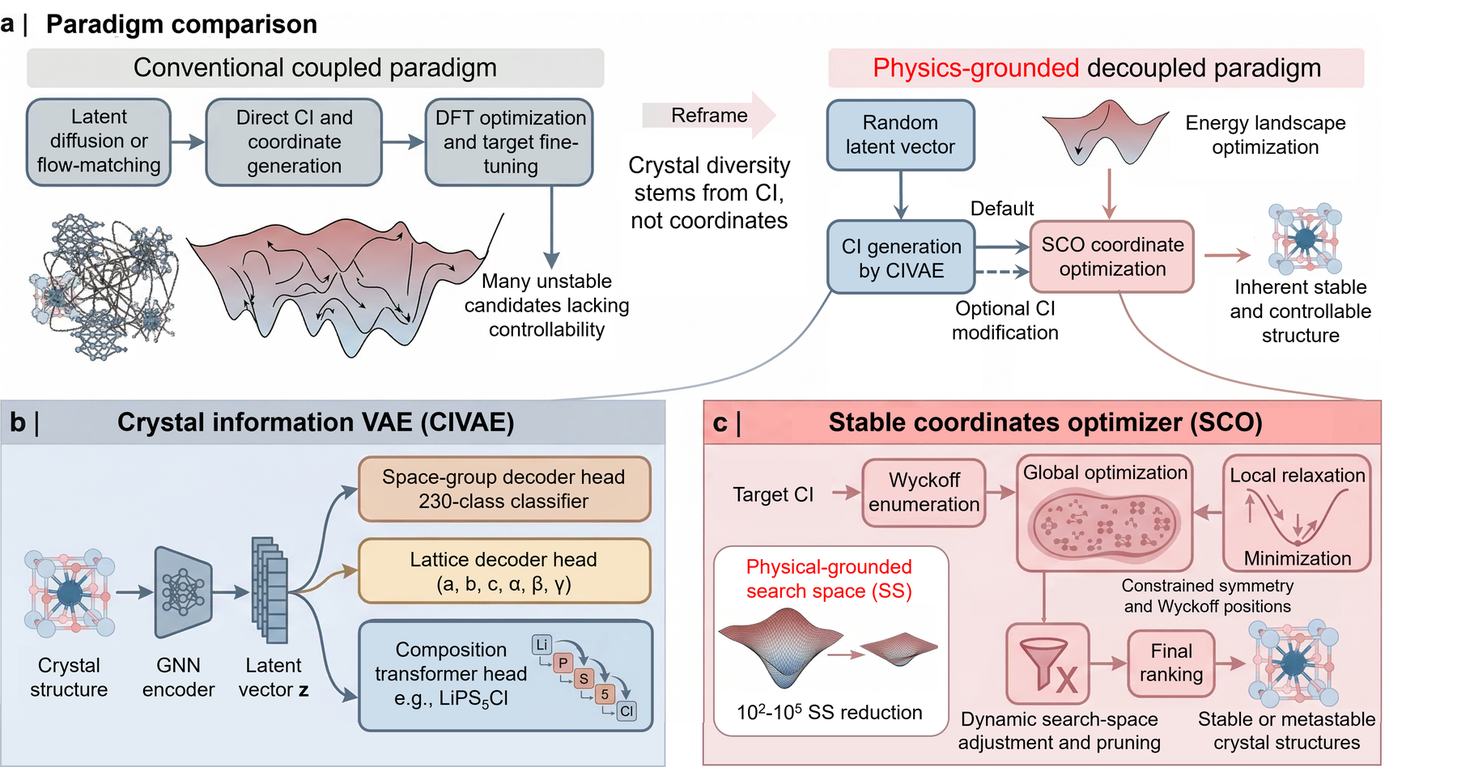
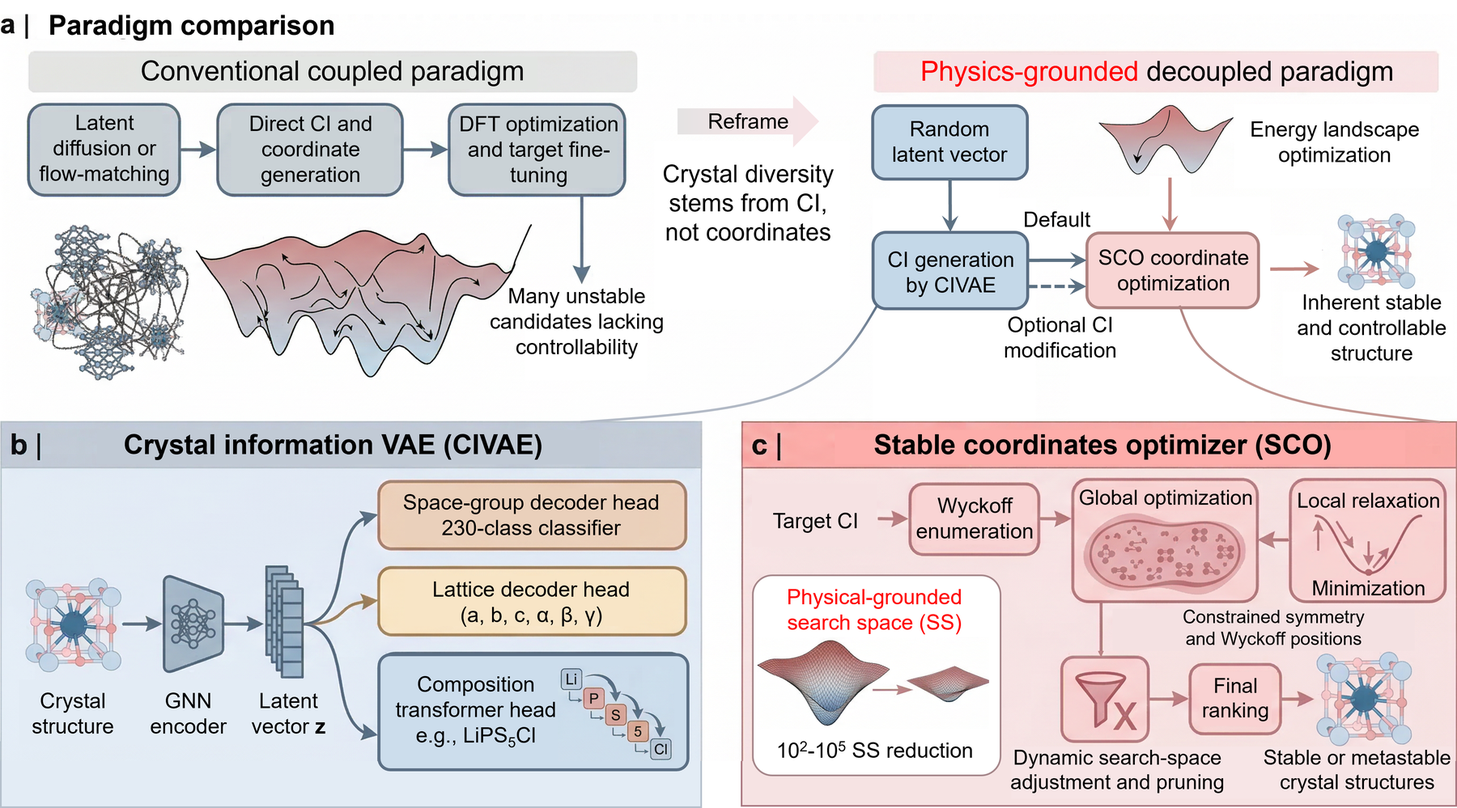
Update about.md with CatDT, SCGEN and FormulaAgent; recrop SCGEN figure
- Mirror the config.js updates onto the legacy Jekyll about page
- Add CatDT paper box and publication entry, renumber the list to 22
- Rename SSAGEN to SCGEN and LLM-Feynman to FormulaAgent
- First-author section is now 6 published + 3 preprints
- Replace the SCGEN figure with the version without right-hand whitespace

diff --git a/_pages/about.md b/_pages/about.md
@@ -17,11 +17,11 @@ redirect_from:
 
 <span class='anchor' id='about-me'></span>
 
-My research lies at the intersection of artificial intelligence and materials science, focusing on developing innovative methods and agents for automated materials discovery. I have contributed to research on three main topics: (1) generative models for the inverse design of functional materials, (2) agents based on large language models for synthesis prediction of crystal structures and scientific formula discovery, and (3) interpretable machine learning for catalyst design. 
+My research lies at the intersection of artificial intelligence and materials science, focusing on developing innovative methods and agents for automated materials discovery. I have contributed to research on four main topics: (1) generative models for the inverse design of functional materials, (2) agents based on large language models for synthesis prediction of crystal structures and scientific formula discovery, (3) multi-agent systems that autonomously simulate working catalysts, and (4) interpretable machine learning for catalyst design. 
 
-I have published 19 peer-reviewed SCI papers with an h-index of <span id="h_index_intro">12</span>, receiving total <a href='https://scholar.google.com/citations?user=3MkXEhUAAAAJ&hl'><img src="https://img.shields.io/endpoint?url={{ url | url_encode }}&logo=Google%20Scholar&labelColor=f6f6f6&color=9cf&style=flat&label=citations"></a>. Among these, I am the first author on 8 papers, including 3 in Nature Communications, 1 in Materials Horizons, 1 in Advanced Functional Materials, and 1 in The Journal of Physical Chemistry Letters. Additionally, I have two important first-authored manuscripts currently under review, available as preprints. 
+I have published 22 papers with an h-index of <span id="h_index_intro">12</span>, receiving total <a href='https://scholar.google.com/citations?user=3MkXEhUAAAAJ&hl'><img src="https://img.shields.io/endpoint?url={{ url | url_encode }}&logo=Google%20Scholar&labelColor=f6f6f6&color=9cf&style=flat&label=citations"></a>. Among these, I am the first author on 9 papers, including 3 in Nature Communications, 1 in Materials Horizons, 1 in Advanced Functional Materials, and 1 in The Journal of Physical Chemistry Letters. Additionally, I have three important first-authored manuscripts currently under review, available as preprints. 
 
-My interdisciplinary work has led to the development of several innovative frameworks including MAGECS (Material Generation with Efficient Global Chemical Space Search) for guiding generative models to globally explore chemical space, SSAGEN (Stability and Symmetry-Assured GENerative framework) for crystal structure generation with inherent stability and symmetry, CSLLM (Crystal Synthesis Large Language Models) for accurate synthesizability prediction of crystal structures, and LLM-Feynman for universal scientific formula and theory discovery. My research has substantially improved discovery efficiency and success rates for novel functional materials.
+My interdisciplinary work has led to the development of several innovative frameworks including CatDT (Catalysis Digital Twin), a self-evolving multi-agent system that builds a condition-aware digital twin of a working catalyst from a bulk crystal and a single sentence, MAGECS (Material Generation with Efficient Global Chemical Space Search) for guiding generative models to globally explore chemical space, SCGEN (Stable and Controllable crystal structure GENeration) for physics-grounded generation of inherently stable, novel and controllable crystals, CSLLM (Crystal Synthesis Large Language Models) for accurate synthesizability prediction of crystal structures, and FormulaAgent for universal scientific formula and theory discovery. My research has substantially improved discovery efficiency and success rates for novel functional materials.
 
 # 🎖 Honors and Awards
 - *2020.01* Top Prize in "HUAWEI Cup" The 16th Chinese Post-Graduate Mathematical Contest in Modeling, Award ratio: 1.3% (188 teams out of 14,014)
@@ -44,6 +44,25 @@ My interdisciplinary work has led to the development of several innovative frame
 - *2019.10 - 2020.01*, **Research Intern**, Materials Data Platform Center, **National Institute for Materials Science (NIMS)**, Tsukuba, Japan
 
 # 📝 Key Research Contributions
+
+<div class='paper-box'>
+  <div class='paper-box-image'>
+    <div style="position: relative; width: 100%;">
+      <div style="background-color: #E6F3FF; padding: 8px; text-align: center; font-weight: bold; border-radius: 8px 8px 0 0;">
+        arXiv: 2606.05050
+      </div>
+      <img src='images/catdt.png' alt="sym" width="100%" style="display: block; border-radius: 0 0 8px 8px;">
+    </div>
+  </div>
+  <div class='paper-box-text' markdown="1">
+
+[Autonomous heterogeneous catalyst discovery with a self-evolving multi-agent digital twin](https://arxiv.org/abs/2606.05050)
+
+**Zhilong Song**, Zongmin Zhang, Lixue Cheng
+
+Theoretical heterogeneous catalysis promises rapid catalyst discovery, yet computational and machine-learning predictions still often deviate from experiment and stay confined to narrow material families, for want of a faithful, condition-aware catalytic simulator. Here we present CatDT (Catalysis Digital Twin), a self-evolving multi-agent system that builds an autonomous, condition-aware digital twin of a working catalyst. From only a bulk crystal and a natural-language reaction description, CatDT uses eight specialized agents and 27 scientific tools to predict stable facets, reconstruct surfaces under operating conditions, enumerate and rank reaction pathways, locate transition states, and compute kinetics in 5–30 min on a single GPU. Two innovations address its two hardest steps. UniMech identifies dominant pathways for novel materials and under-explored reactions at over 10<sup>3</sup>× lower cost than exhaustive enumeration, by fusing agent-guided proposals with energy-cached graph search over autonomously constructed reaction networks. A memory-augmented reinforcement loop lifts barrier-calculation success from 41% to 84% across 600 diverse catalytic surfaces, by learning to construct better initial and final states and path interpolations across runs. Every CatDT prediction lies between 0.5 and 2 times the experimental value across measurements spanning four orders of magnitude, on seven benchmarks: stepped metals, single-atom catalysts, ordered intermetallics, vacancy-rich two-dimensional sulfides, two-dimensional carbides, and a strong-metal–support-interaction (SMSI) interface. For propane dehydrogenation (PDH), CatDT independently discovers non-precious catalyst candidates that rival the Pt-based industrial benchmark, with the proposed Ni@ZrO<sub>2</sub> SMSI overlayer reaching a simulated TOF of 1.63 s<sup>-1</sup> at ~100% selectivity. More broadly, the decisive factor for a faithful catalyst digital twin, or any multi-stage scientific simulator, is not raw LLM capability but the engineered harness around it: deterministic tools, persistent memory, and verified self-improvement that compound across every new foundation model, tool, and run.
+</div>
+</div>
 
 <div class='paper-box'>
   <div class='paper-box-image'>
@@ -89,16 +108,16 @@ Directly generating material structures with optimal properties is a long-standi
       <div style="background-color: #E6F3FF; padding: 8px; text-align: center; font-weight: bold; border-radius: 8px 8px 0 0;">
         arXiv: 2507.19307
       </div>
-      <img src='images/ssagen.png' alt="sym" width="100%" style="display: block; border-radius: 0 0 8px 8px;">
+      <img src='images/scgen.png' alt="sym" width="100%" style="display: block; border-radius: 0 0 8px 8px;">
     </div>
   </div>
   <div class='paper-box-text' markdown="1">
 
-[Stability and Symmetry-Assured Crystal Structure Generation for Inverse Design of Photocatalysts in Water Splitting](https://arxiv.org/abs/2507.19307)
+[Physics-grounded generative design of inherently stable, novel and controllable crystal structures](https://arxiv.org/abs/2507.19307)
 
-**Zhilong Song**, Chongyi Ling, Qiang Li, Qionghua Zhou, Jinlan Wang
+**Zhilong Song**, Qionghua Zhou, Chongyi Ling, Qiang Li, Lixue Cheng, Jinlan Wang
 
-Generative models are revolutionizing materials discovery by enabling inverse design-direct generation of structures from desired properties. However, existing approaches often struggle to ensure inherent stability and symmetry while precisely generating structures with target compositions, space groups, and lattices without fine-tuning. Here, we present SSAGEN (Stability and Symmetry-Assured GENerative framework), which overcomes these limitations by decoupling structure generation into two distinct stages: crystal information (lattice, composition, and space group) generation and coordinate optimization. SSAGEN first generates diverse yet physically plausible crystal information, then derives stable and metastable atomic positions through universal machine learning potentials, combined global and local optimization with symmetry and Wyckoff position constraints, and dynamically refined search spaces. Compared to prior generative models such as CDVAE, SSAGEN improves the thermodynamic and kinetic stability of generated structures by 148% and 180%, respectively, while inherently satisfying target compositions, space groups, and lattices. Applied to photocatalytic water splitting (PWS), SSAGEN generates 200,000 structures-81.2% novel-with 3,318 meeting all stability and band gap criteria. Density functional theory (DFT) validation confirms 95.6% structures satisfy PWS requirements, with 24 optimal candidates identified through comprehensive screening based on electronic structure, thermodynamic, kinetic, and aqueous stability criteria. SSAGEN not only precisely generates materials with desired crystal information but also ensures inherent stability and symmetry, establishing a new paradigm for targeted inverse design of functional materials.
+Generative inverse design is reshaping the discovery of functional crystalline materials. Yet current generative models face challenges in simultaneously achieving stability, novelty, and precise controllability in a single trained model. We address these challenges with a key physical insight: the diversity of crystals is governed by their crystallographic information (CI), namely composition, space group and lattice, whereas only a few stable atomic configurations remain once the CI is fixed. Built on this insight, we introduce SCGEN (stable and controllable crystal structure generation), a physics-grounded generative model with two components. A variational autoencoder samples diverse, physically plausible CI, and a symmetry- and Wyckoff-position-constrained optimizer locates stable atomic positions via universal machine-learning potentials. Benchmarked on roughly two million structures, SCGEN reaches state-of-the-art stability while preserving comparable novelty, and it satisfies any specified composition, space group, lattice or joint constraint with 100% success and no task-specific retraining. Applied to photocatalytic water splitting, property-guided optimization with SCGEN generates 200,000 candidate structures and identifies the top 22 stable, active and synthesizable photocatalysts. By decoupling CI generation from coordinate optimization, SCGEN establishes a physics-grounded inverse-design paradigm that yields synthesis-ready crystals on demand, rather than structures requiring post hoc repair, relaxation, or retraining.
 </div>
 </div>
 
@@ -108,16 +127,16 @@ Generative models are revolutionizing materials discovery by enabling inverse de
       <div style="background-color: #E6F3FF; padding: 8px; text-align: center; font-weight: bold; border-radius: 8px 8px 0 0;">
         arXiv: 2503.06512
       </div>
-      <img src='images/feynman.png' alt="sym" width="100%" style="display: block; border-radius: 0 0 8px 8px;">
+      <img src='images/formulaagent.png' alt="sym" width="100%" style="display: block; border-radius: 0 0 8px 8px;">
     </div>
   </div>
   <div class='paper-box-text' markdown="1">
 
-[LLM-Feynman: Leveraging Large Language Models for Universal Scientific Formula and Theory Discovery](https://arxiv.org/abs/2503.06512)
+[FormulaAgent: A Model-Agnostic Self-Optimizing Agent for Autonomous Scientific Formula Discovery](https://arxiv.org/abs/2503.06512)
 
-**Zhilong Song**, Minggang Ju, Chunjin Ren, Qiang Li, Chongyi Li, Qionghua Zhou, Jinlan Wang
+**Zhilong Song**, Qionghua Zhou, Chunjin Ren, Zhipeng Cao, Minggang Ju, Xiuyun Zhang, Chongyi Ling, Jinlan Wang
 
-Distilling underlying principles from data has historically driven scientific breakthroughs. However, conventional data‐driven machine learning often produces complex models that lack interpretability and generalization due to insufficient domain expertise. Here, we present LLM-Feynman, a novel agent that leverages large language models (LLMs) alongside systematic optimization to derive concise, interpretable formulas from data and domain knowledge. Our method integrates automated feature engineering, LLM-guided symbolic regression with self-evaluation, and Monte Carlo tree search to reduce LLM hallucination, thereby enhancing formula discovery. The embedding of domain knowledge simplifies the formula, while self-evaluation based on this knowledge further minimizes prediction errors, surpassing conventional symbolic regression in accuracy and interpretability. Validation on datasets from Feynman physics lectures confirms that LLM-Feynman can rediscover over 90% real physical formulas. Moreover, when applied to four key materials science tasks -- from classifying the synthesizability of 2D and perovskite structures to predicting ionic conductivity in lithium solid-state electrolytes and GW bandgaps in 2D materials -- LLM-Feynman consistently yields interpretable formula with accuracy exceeding 90% and R2 values above 0.8. By transcending mere data fitting through the integration of deep domain knowledge, LLM-Feynman establishes a new paradigm for the automated discovery of generalizable scientific formula and theory across disciplines.
+Large Language Models (LLMs) have emerged as powerful tools for knowledge integration and prediction across diverse scientific disciplines. However, their ability to derive physically grounded formulas remains limited by hallucination and insufficient domain expertise integration. Here, we develop FormulaAgent, a model-agnostic agent that leverages domain knowledge for iterative self-evaluation, accumulating scored formulas as memory to drive self-optimizing discovery of scientific formulas. Ablation studies show that FormulaAgent suppresses hallucination while outperforming conventional symbolic regression in both accuracy and simplicity. We demonstrate broad applicability across 20 material properties spanning both 2D and bulk systems, with R<sup>2</sup> values ranging from 0.72 to 0.96 while preserving full analytical interpretability. Notably, for 2D material synthesizability, the agent uncovers a compact, interpretable formula (S = −HG·ER + MV + C) achieving 93% predictive accuracy, substantially outperforming thermodynamic stability-based methods (60%). By prioritizing physically informed optimization over purely data-driven fitting, this work establishes a scalable paradigm for automated discovery of compact, transferable, and physically meaningful scientific formulas.
 </div>
 </div>
 
@@ -125,7 +144,7 @@ Distilling underlying principles from data has historically driven scientific br
   <div class='paper-box-image'>
     <div style="position: relative; width: 100%;">
       <div style="background-color: #E6F3FF; padding: 8px; text-align: center; font-weight: bold; border-radius: 8px 8px 0 0;">
-        Acta Phys. Chim. Sin., 100213 (2025)
+        Acta Phys. Chim. Sin. 42, 100213 (2026)
       </div>
       <img src='images/t2mat.png' alt="sym" width="100%" style="display: block; border-radius: 0 0 8px 8px;">
     </div>
@@ -200,9 +219,9 @@ Data-driven machine learning (ML) has earned remarkable achievements in accelera
 # 📚 Publications
 
 
-## Total: 21 papers, <a href='https://scholar.google.com/citations?user=3MkXEhUAAAAJ&hl'>Google Scholar Profile</a> | <a href='https://scholar.google.com/citations?user=3MkXEhUAAAAJ&hl'><img src="https://img.shields.io/endpoint?url={{ url | url_encode }}&logo=Google%20Scholar&labelColor=f6f6f6&color=9cf&style=flat&label=citations"></a> | h-index: <span id="h_index">12</span>
+## Total: 22 papers, <a href='https://scholar.google.com/citations?user=3MkXEhUAAAAJ&hl'>Google Scholar Profile</a> | <a href='https://scholar.google.com/citations?user=3MkXEhUAAAAJ&hl'><img src="https://img.shields.io/endpoint?url={{ url | url_encode }}&logo=Google%20Scholar&labelColor=f6f6f6&color=9cf&style=flat&label=citations"></a> | h-index: <span id="h_index">12</span>
 
-### First Author Papers (6 published + 2 preprints)
+### First Author Papers (6 published + 3 preprints)
 
 1. **Z. Song**, S. Lu, M. Ju, et al. "Accurate prediction of synthesizability and precursors of 3D crystal structures via large language models." [**_Nature Communications_**, 2025, 16(1): 6530](https://www.nature.com/articles/s41467-025-61778-y).
 
@@ -212,45 +231,47 @@ Data-driven machine learning (ML) has earned remarkable achievements in accelera
 
 4. **Z. Song**, Q. Zhou, S. Lu, et al. "Adaptive design of alloys for CO₂ activation and methanation via reinforcement learning Monte Carlo tree search algorithm." [**_The Journal of Physical Chemistry Letters_**, 2023, 14(14): 3594-3601](https://pubs.acs.org/doi/abs/10.1021/acs.jpclett.3c00242).
 
-5. **Z. Song**, C. Ling, Q. Li, et al. "Stability and Symmetry-Assured Crystal Structure Generation for Inverse Design of Photocatalysts in Water Splitting." 2025, [**_arXiv:2507.19307_**](https://arxiv.org/abs/2507.19307). (Under review)
+5. **Z. Song**, Z. Zhang, L. Cheng. "Autonomous heterogeneous catalyst discovery with a self-evolving multi-agent digital twin." 2026, [**_arXiv:2606.05050_**](https://arxiv.org/abs/2606.05050). (Under review)
 
-6. **Z. Song**, M. Ju, C. Ren, et al. "LLM-Feynman: Leveraging Large Language Models for Universal Scientific Formula and Theory Discovery." 2025, [**_arXiv:2503.06512_**](https://arxiv.org/abs/2503.06512). (Under review)
+6. **Z. Song**, Q. Zhou, C. Ling, et al. "Physics-grounded generative design of inherently stable, novel and controllable crystal structures." 2025, [**_arXiv:2507.19307_**](https://arxiv.org/abs/2507.19307). (Under review)
 
-7. **Z. Song**, S. Lu, Q. Zhou, et al. "T2MAT (text-to-materials): A universal agent for generating material structures with goal properties from a single sentence." [**_Acta Physico-Chimica Sinica_**, 2025: 100213](https://www.sciencedirect.com/science/article/pii/S1000681825001699).
+7. **Z. Song**, Q. Zhou, C. Ren, et al. "FormulaAgent: A Model-Agnostic Self-Optimizing Agent for Autonomous Scientific Formula Discovery." 2025, [**_arXiv:2503.06512_**](https://arxiv.org/abs/2503.06512). (Under review)
 
-8. **Z. Song**, X. Chen, F. Meng, et al. "Machine learning in materials design: Algorithm and application." [**_Chinese Physics B_**, 2020, 29(11): 116103](https://iopscience.iop.org/article/10.1088/1674-1056/abc0e3). 
+8. **Z. Song**, S. Lu, Q. Zhou, et al. "T2MAT (text-to-materials): A universal agent for generating material structures with goal properties from a single sentence." [**_Acta Physico-Chimica Sinica_**, 2026, 42(5): 100213](https://www.sciencedirect.com/science/article/pii/S1000681825001699).
+
+9. **Z. Song**, X. Chen, F. Meng, et al. "Machine learning in materials design: Algorithm and application." [**_Chinese Physics B_**, 2020, 29(11): 116103](https://iopscience.iop.org/article/10.1088/1674-1056/abc0e3). 
 
 ### Co-first Author Papers (2 papers)
 
-9. B. Weng#, **Z. Song#**, R. Zhu, et al. "Simple descriptor derived from symbolic regression accelerating the discovery of new perovskite catalysts." [**_Nature Communications_**, 2020, 11(1): 3513](http://www.nature.com/articles/s41467-020-17263-9). (Equal contribution)
+10. B. Weng#, **Z. Song#**, R. Zhu, et al. "Simple descriptor derived from symbolic regression accelerating the discovery of new perovskite catalysts." [**_Nature Communications_**, 2020, 11(1): 3513](http://www.nature.com/articles/s41467-020-17263-9). (Equal contribution)
 
-10. M. Wu#, **Z. Song#**, Y. Cui, et al. "Machine learning-assisted design of nitrogen-rich covalent triazine frameworks photocatalysts." [**_Advanced Functional Materials_**, 2024: 2413453](https://onlinelibrary.wiley.com/doi/10.1002/adfm.202413453). (Equal contribution)
+11. M. Wu#, **Z. Song#**, Y. Cui, et al. "Machine learning-assisted design of nitrogen-rich covalent triazine frameworks photocatalysts." [**_Advanced Functional Materials_**, 2024: 2413453](https://onlinelibrary.wiley.com/doi/10.1002/adfm.202413453). (Equal contribution)
 
 ### Co-author Papers (10 papers)
 
-11. X. Chen, **Z. Song**, S. Lu, et al. "Continuous discovery of novel 2D materials via dual active learning-driven generative models" [**_National Science Review_**, 2026: nwag101](https://academic.oup.com/nsr/advance-article-abstract/doi/10.1093/nsr/nwag101/8475385).
+12. X. Chen, **Z. Song**, S. Lu, et al. "Continuous discovery of novel 2D materials via dual active learning-driven generative models" [**_National Science Review_**, 2026: nwag101](https://academic.oup.com/nsr/advance-article-abstract/doi/10.1093/nsr/nwag101/8475385).
 
-12. Y. Su, **Z. Song**, W. Zhu, et al. "Visible-light photocatalytic CO₂ reduction using metal-organic framework derived Ni(OH)₂ nanocages: a synergy from multiple light reflection, static charge transfer, and oxygen vacancies." [**_ACS Catalysis_**, 2020, 11(1): 345-354](https://pubs.acs.org/doi/10.1021/acscatal.0c04020).
+13. Y. Su, **Z. Song**, W. Zhu, et al. "Visible-light photocatalytic CO₂ reduction using metal-organic framework derived Ni(OH)₂ nanocages: a synergy from multiple light reflection, static charge transfer, and oxygen vacancies." [**_ACS Catalysis_**, 2020, 11(1): 345-354](https://pubs.acs.org/doi/10.1021/acscatal.0c04020).
 
-13. Z. Sun, **Z. Song**, W.J. Yin. "Going beyond the d-band center to describe CO₂ activation on single-atom alloys." [**_Advanced Energy and Sustainability Research_**, 2022, 3(2): 2100152](https://onlinelibrary.wiley.com/doi/10.1002/aesr.202100152).
+14. Z. Sun, **Z. Song**, W.J. Yin. "Going beyond the d-band center to describe CO₂ activation on single-atom alloys." [**_Advanced Energy and Sustainability Research_**, 2022, 3(2): 2100152](https://onlinelibrary.wiley.com/doi/10.1002/aesr.202100152).
 
-14. S. Dieb, **Z. Song**, W.J. Yin, et al. "Optimization of depth-graded multilayer structure for x-ray optics using machine learning." [**_Journal of Applied Physics_**, 2020, 128(7): 074901](http://aip.scitation.org/doi/10.1063/5.0012351).
+15. S. Dieb, **Z. Song**, W.J. Yin, et al. "Optimization of depth-graded multilayer structure for x-ray optics using machine learning." [**_Journal of Applied Physics_**, 2020, 128(7): 074901](http://aip.scitation.org/doi/10.1063/5.0012351).
 
-15. X. Chen, **Z. Song**, S. Lu, et al. "AI-driven materials design: paradigm shift from small data to big data." [**_SCIENTIA SINICA Chimica_**, 2025, 55(6): 1648-1659](https://doi.org/10.1360/SSC-2025-0048).
+16. X. Chen, **Z. Song**, S. Lu, et al. "AI-driven materials design: paradigm shift from small data to big data." [**_SCIENTIA SINICA Chimica_**, 2025, 55(6): 1648-1659](https://doi.org/10.1360/SSC-2025-0048).
 
-16. W. Lin, F. Liu, **Z. Song**, et al. "Feature-Extended Descriptor Construction for Prediction of Consecutive Elementary Reaction Energies in Methane Oxidation." [**_Chemistry of Materials_**, 2025, 37(12): 4499–4510](https://pubs.acs.org/doi/abs/10.1021/acs.chemmater.5c00930).
+17. W. Lin, F. Liu, **Z. Song**, et al. "Feature-Extended Descriptor Construction for Prediction of Consecutive Elementary Reaction Energies in Methane Oxidation." [**_Chemistry of Materials_**, 2025, 37(12): 4499–4510](https://pubs.acs.org/doi/abs/10.1021/acs.chemmater.5c00930).
 
-17. S. Lu, Q. Zhou, X. Chen, **Z. Song**, et al. "Inverse design with deep generative models: next step in materials discovery." [**_National Science Review_**, 2022, 9(8): nwac111](https://academic.oup.com/nsr/article/doi/10.1093/nsr/nwac111/6605930).
+18. S. Lu, Q. Zhou, X. Chen, **Z. Song**, et al. "Inverse design with deep generative models: next step in materials discovery." [**_National Science Review_**, 2022, 9(8): nwac111](https://academic.oup.com/nsr/article/doi/10.1093/nsr/nwac111/6605930).
 
-18. H. Lin, J. Mao, M. Qin, **Z. Song**, et al. "Single-phase alkylammonium cesium lead iodide quasi-2D perovskites for color-tunable and spectrum-stable red LED." [**_Nanoscale_**, 2019, 11(36): 16907-16918](https://xlink.rsc.org/?DOI=C9NR02706H).
+19. H. Lin, J. Mao, M. Qin, **Z. Song**, et al. "Single-phase alkylammonium cesium lead iodide quasi-2D perovskites for color-tunable and spectrum-stable red LED." [**_Nanoscale_**, 2019, 11(36): 16907-16918](https://xlink.rsc.org/?DOI=C9NR02706H).
 
-19. H.L. Zhu, H. Lin, **Z. Song**, et al. "Achieving high-quality Sn–Pb perovskite films on complementary metal-oxide-semiconductor-compatible metal/silicon substrates for efficient imaging array." [**_ACS Nano_**, 2019, 13(10): 11800-11808](https://pubs.acs.org/doi/10.1021/acsnano.9b05774).
+20. H.L. Zhu, H. Lin, **Z. Song**, et al. "Achieving high-quality Sn–Pb perovskite films on complementary metal-oxide-semiconductor-compatible metal/silicon substrates for efficient imaging array." [**_ACS Nano_**, 2019, 13(10): 11800-11808](https://pubs.acs.org/doi/10.1021/acsnano.9b05774).
 
-20. X. Gao, Y. Wu, Y. Zhang, X. Chen, **Z. Song**, et al. "How the spacer influences the stability of 2D perovskites?." [**_Small Methods_**, 2024: 2401172](https://onlinelibrary.wiley.com/doi/10.1002/smtd.202401172).
+21. X. Gao, Y. Wu, Y. Zhang, X. Chen, **Z. Song**, et al. "How the spacer influences the stability of 2D perovskites?." [**_Small Methods_**, 2024: 2401172](https://onlinelibrary.wiley.com/doi/10.1002/smtd.202401172).
 
 ### Conference Papers (1 paper)
 
-21. **Z. Song**, X. Chen, S. Dieb, et al. "Design of thermodynamically stable perovskites using machine learning." [*The 67th JSAP Spring Meeting 2020*, The Japan Society of Applied Physics, 2020: 3632-3632](https://www.jstage.jst.go.jp/article/jsapmeeting/2020.1/0/2020.1_3632/_article/-char/ja/).
+22. **Z. Song**, X. Chen, S. Dieb, et al. "Design of thermodynamically stable perovskites using machine learning." [*The 67th JSAP Spring Meeting 2020*, The Japan Society of Applied Physics, 2020: 3632-3632](https://www.jstage.jst.go.jp/article/jsapmeeting/2020.1/0/2020.1_3632/_article/-char/ja/).
 
 ---
 # 💻 Technical Expertise
